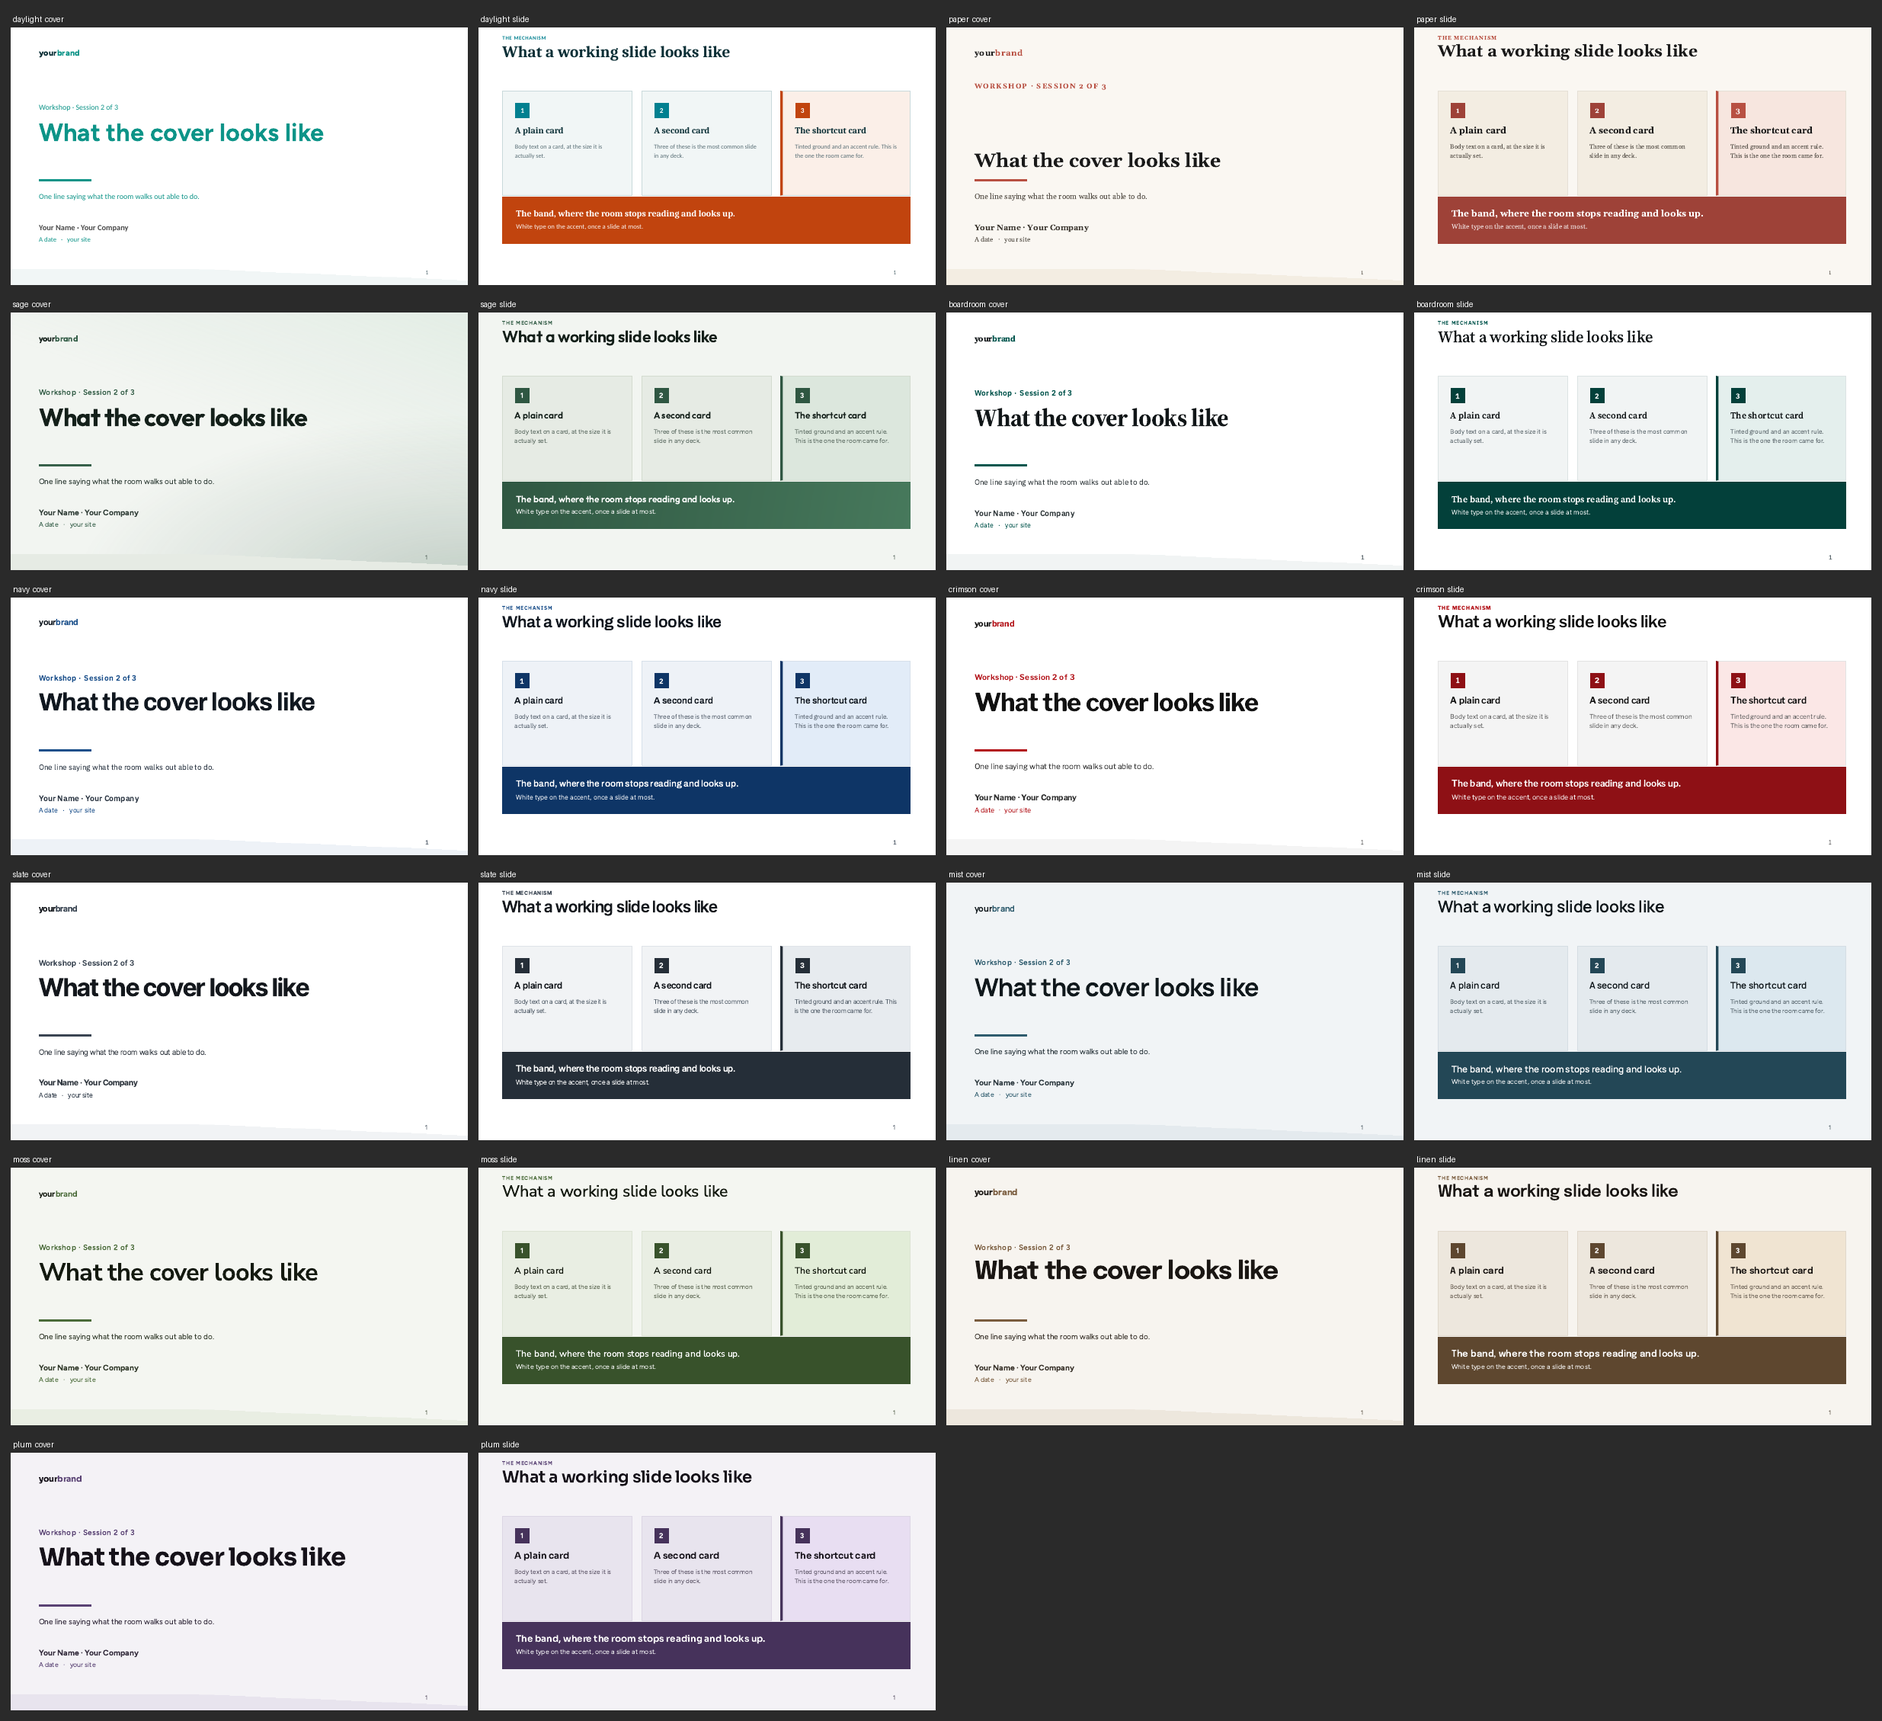
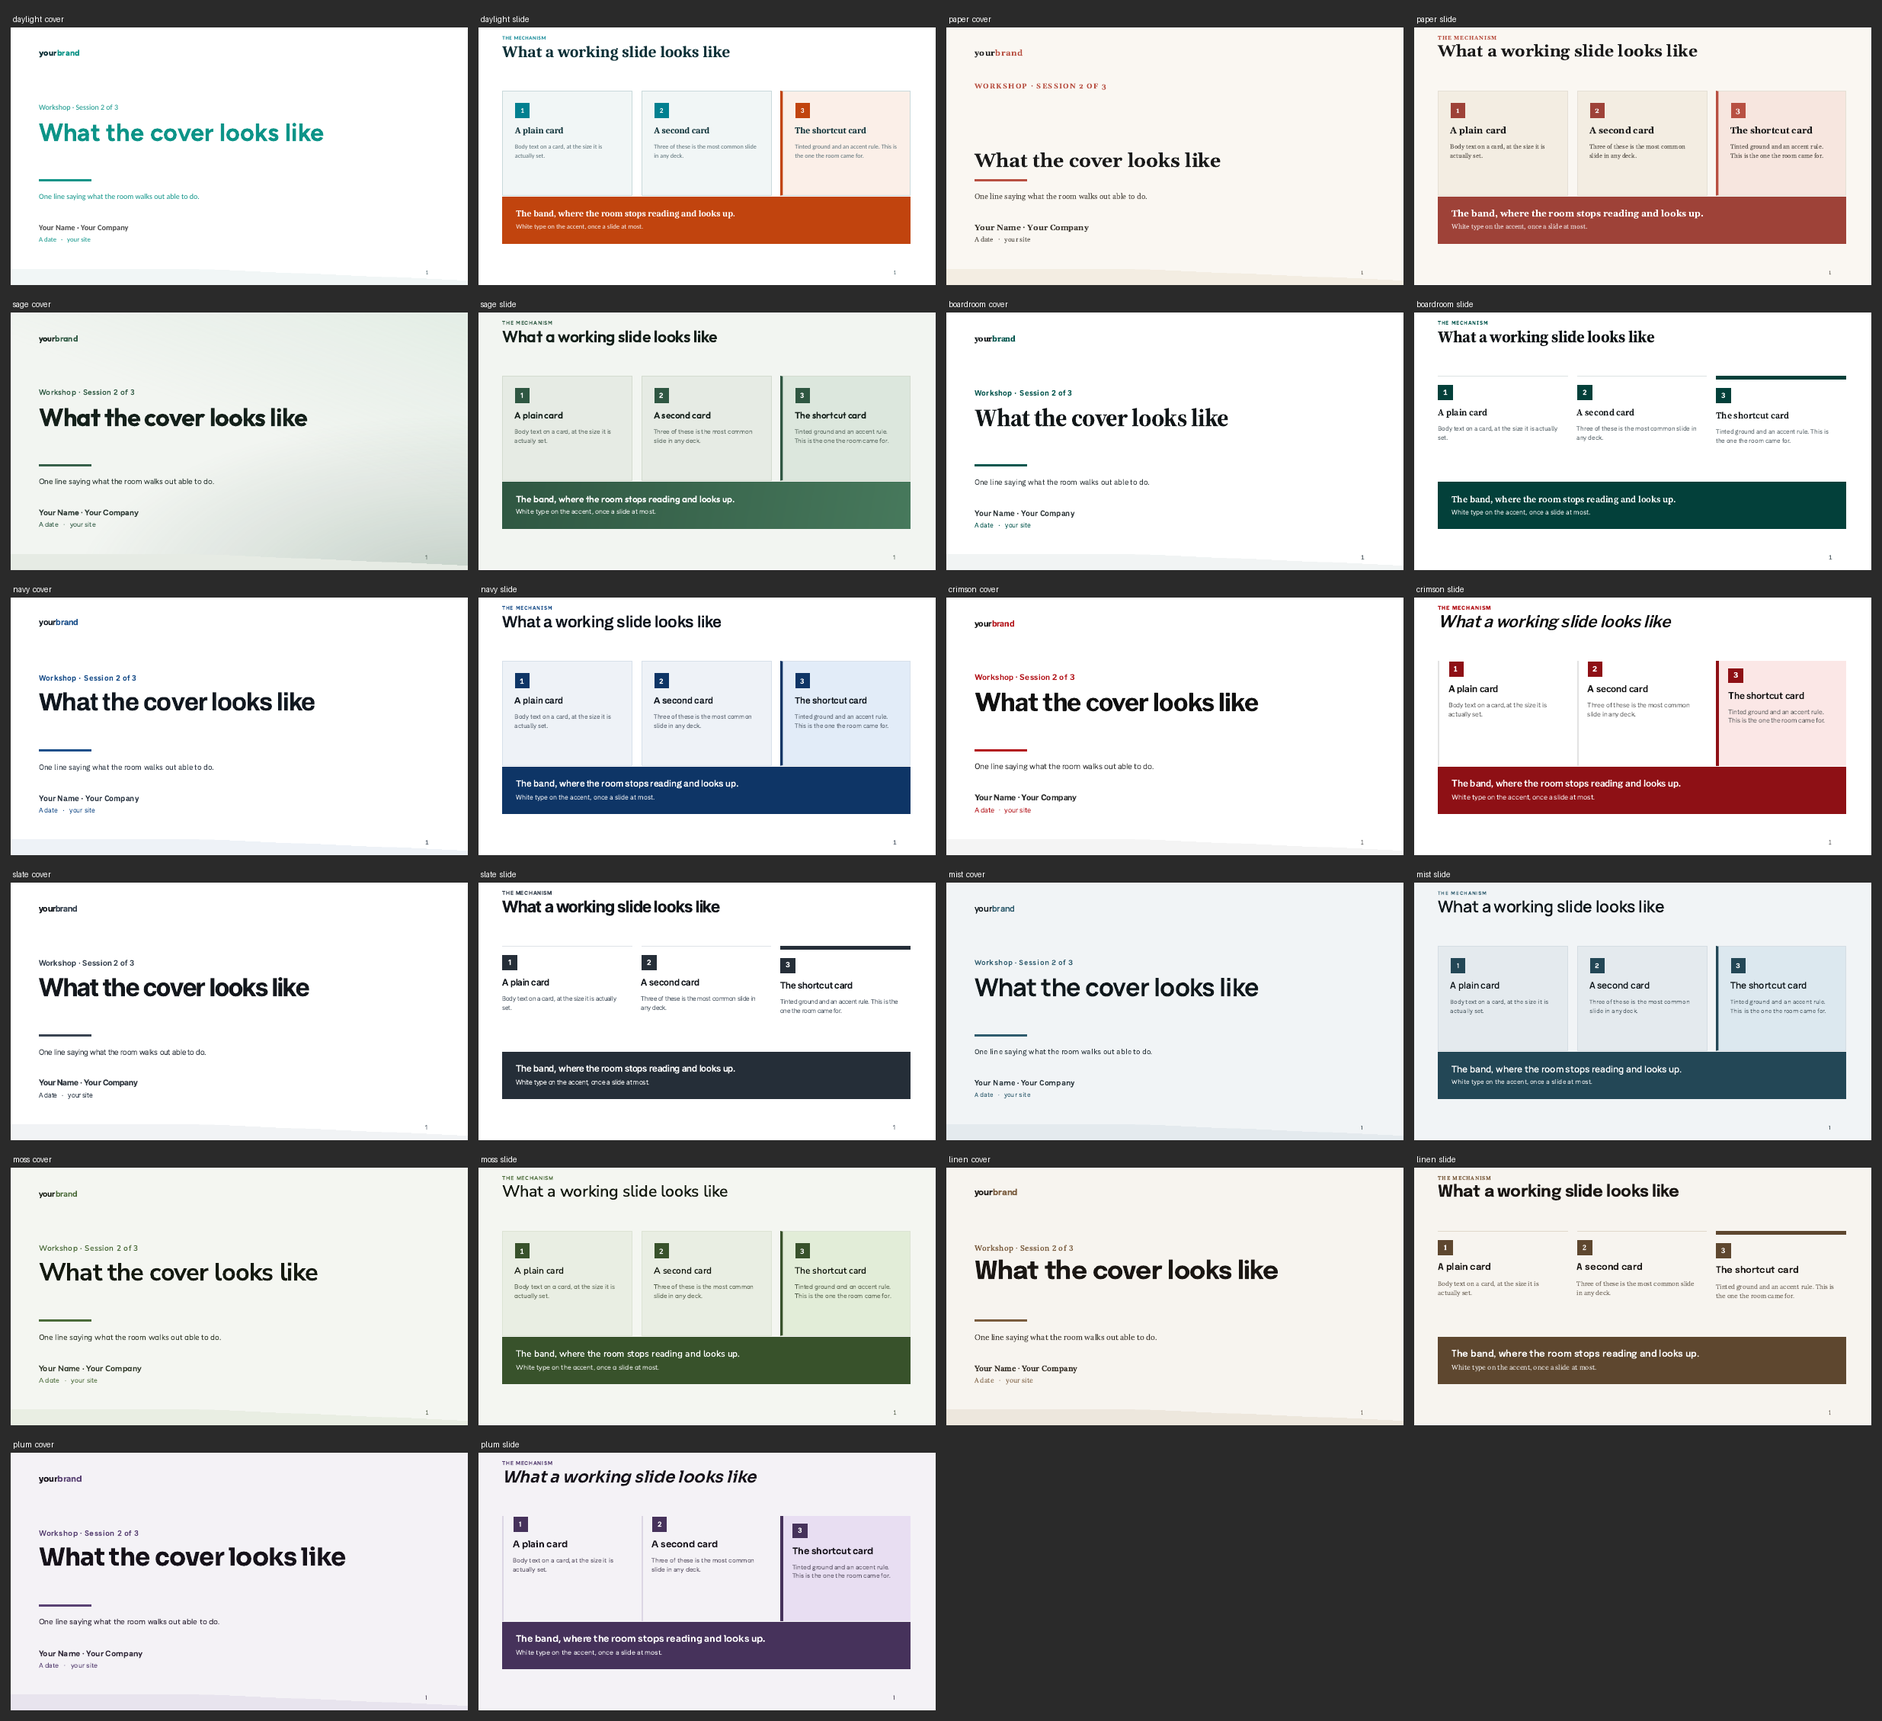
Give the generated themes different construction, not just hue
Three styles: boxed (filled card in a border), ruled (no fill, a rule
over each column, reads as a document), edged (no fill, a thick accent
rule down the left, italic title). The grid is unchanged, so every
collision guarantee still holds; only the treatment varies.

Each theme now has its own body face rather than five sharing one.

diff --git a/plugins/deck-kit/skills/deck/assets/plum.css b/plugins/deck-kit/skills/deck/assets/plum.css
@@ -81,7 +81,7 @@
   --margin:calc(.525 * var(--in));
   --content:calc(8.925 * var(--in));
   --head:'Sora',-apple-system,BlinkMacSystemFont,'Segoe UI',sans-serif;
-  --body:'Figtree',-apple-system,BlinkMacSystemFont,'Segoe UI',sans-serif;
+  --body:'DM Sans',-apple-system,BlinkMacSystemFont,'Segoe UI',sans-serif;
   --brand:'Sora',-apple-system,BlinkMacSystemFont,'Segoe UI',sans-serif;
   --mono:'Courier New',Courier,monospace;
 
@@ -788,3 +788,20 @@ body{
       the one card that is meant to be seen before it is read. */
 .card{border-width:calc(.7 * var(--pt))}
 .tbl th,.tbl td{border-bottom-width:calc(.7 * var(--pt))}
+
+/* ---- style: edged ------------------------------------------------
+   No fill and no box. A rule down the left of each column, and the
+   title set in italic. This is the editorial voice and it is the one
+   family that is genuinely tiring over a long deck, which is why it
+   is only on the two themes that already carry that warning.
+   The shortcut keeps the tint here, because with every card already
+   carrying a left rule the rule alone no longer distinguishes it. */
+.card{background:none;border:none;border-left:calc(2.5 * var(--pt)) solid var(--card-line);
+      padding:calc(.02 * var(--in)) calc(.20 * var(--in))}
+.dark .card{background:none;border-left-color:var(--dark-line)}
+.card.tip{background:var(--tip-bg);
+          border-left:calc(5 * var(--pt)) solid var(--accent-deep);
+          padding-top:calc(.16 * var(--in));padding-bottom:calc(.16 * var(--in))}
+.dark .card.tip{background:var(--dark-card);border-left-color:var(--accent-lift)}
+.title{font-style:italic;font-weight:600;letter-spacing:-.004em}
+.chapter h2{font-style:italic}

diff --git a/plugins/deck-kit/skills/deck/assets/linen.css b/plugins/deck-kit/skills/deck/assets/linen.css
@@ -80,7 +80,7 @@
   --margin:calc(.525 * var(--in));
   --content:calc(8.925 * var(--in));
   --head:'Epilogue',-apple-system,BlinkMacSystemFont,'Segoe UI',sans-serif;
-  --body:'Figtree',-apple-system,BlinkMacSystemFont,'Segoe UI',sans-serif;
+  --body:'Lora',Georgia,serif;
   --brand:'Epilogue',-apple-system,BlinkMacSystemFont,'Segoe UI',sans-serif;
   --mono:'Courier New',Courier,monospace;
 
@@ -787,3 +787,17 @@ body{
       the one card that is meant to be seen before it is read. */
 .card{border-width:calc(.7 * var(--pt))}
 .tbl th,.tbl td{border-bottom-width:calc(.7 * var(--pt))}
+
+/* ---- style: ruled ------------------------------------------------
+   The card loses its fill and its box and keeps a rule over the top.
+   Three columns under three rules read as a document's columns, which
+   is the point: this family is for a room that reads first.
+   The shortcut card cannot rely on a tint it no longer has, so its
+   rule is three times the weight and takes the deep accent. */
+.card{background:none;border:none;border-top:calc(2 * var(--pt)) solid var(--card-line);
+      padding:calc(.18 * var(--in)) calc(.16 * var(--in)) 0 0}
+.dark .card{background:none;border-top-color:var(--dark-line)}
+.card.tip{background:none;border-left:none;
+          border-top:calc(6 * var(--pt)) solid var(--accent-deep)}
+.dark .card.tip{border-top-color:var(--accent-lift)}
+.title{font-weight:700;letter-spacing:-.018em}

diff --git a/plugins/deck-kit/skills/deck/assets/crimson.css b/plugins/deck-kit/skills/deck/assets/crimson.css
@@ -790,3 +790,20 @@ body{
       the one card that is meant to be seen before it is read. */
 .card{border-width:calc(.7 * var(--pt))}
 .tbl th,.tbl td{border-bottom-width:calc(.7 * var(--pt))}
+
+/* ---- style: edged ------------------------------------------------
+   No fill and no box. A rule down the left of each column, and the
+   title set in italic. This is the editorial voice and it is the one
+   family that is genuinely tiring over a long deck, which is why it
+   is only on the two themes that already carry that warning.
+   The shortcut keeps the tint here, because with every card already
+   carrying a left rule the rule alone no longer distinguishes it. */
+.card{background:none;border:none;border-left:calc(2.5 * var(--pt)) solid var(--card-line);
+      padding:calc(.02 * var(--in)) calc(.20 * var(--in))}
+.dark .card{background:none;border-left-color:var(--dark-line)}
+.card.tip{background:var(--tip-bg);
+          border-left:calc(5 * var(--pt)) solid var(--accent-deep);
+          padding-top:calc(.16 * var(--in));padding-bottom:calc(.16 * var(--in))}
+.dark .card.tip{background:var(--dark-card);border-left-color:var(--accent-lift)}
+.title{font-style:italic;font-weight:600;letter-spacing:-.004em}
+.chapter h2{font-style:italic}

diff --git a/plugins/deck-kit/skills/deck/assets/boardroom.css b/plugins/deck-kit/skills/deck/assets/boardroom.css
@@ -783,3 +783,17 @@ body{
       the one card that is meant to be seen before it is read. */
 .card{border-width:calc(.7 * var(--pt))}
 .tbl th,.tbl td{border-bottom-width:calc(.7 * var(--pt))}
+
+/* ---- style: ruled ------------------------------------------------
+   The card loses its fill and its box and keeps a rule over the top.
+   Three columns under three rules read as a document's columns, which
+   is the point: this family is for a room that reads first.
+   The shortcut card cannot rely on a tint it no longer has, so its
+   rule is three times the weight and takes the deep accent. */
+.card{background:none;border:none;border-top:calc(2 * var(--pt)) solid var(--card-line);
+      padding:calc(.18 * var(--in)) calc(.16 * var(--in)) 0 0}
+.dark .card{background:none;border-top-color:var(--dark-line)}
+.card.tip{background:none;border-left:none;
+          border-top:calc(6 * var(--pt)) solid var(--accent-deep)}
+.dark .card.tip{border-top-color:var(--accent-lift)}
+.title{font-weight:700;letter-spacing:-.018em}

diff --git a/plugins/deck-kit/skills/deck/assets/slate.css b/plugins/deck-kit/skills/deck/assets/slate.css
@@ -792,3 +792,17 @@ body{
       the one card that is meant to be seen before it is read. */
 .card{border-width:calc(.7 * var(--pt))}
 .tbl th,.tbl td{border-bottom-width:calc(.7 * var(--pt))}
+
+/* ---- style: ruled ------------------------------------------------
+   The card loses its fill and its box and keeps a rule over the top.
+   Three columns under three rules read as a document's columns, which
+   is the point: this family is for a room that reads first.
+   The shortcut card cannot rely on a tint it no longer has, so its
+   rule is three times the weight and takes the deep accent. */
+.card{background:none;border:none;border-top:calc(2 * var(--pt)) solid var(--card-line);
+      padding:calc(.18 * var(--in)) calc(.16 * var(--in)) 0 0}
+.dark .card{background:none;border-top-color:var(--dark-line)}
+.card.tip{background:none;border-left:none;
+          border-top:calc(6 * var(--pt)) solid var(--accent-deep)}
+.dark .card.tip{border-top-color:var(--accent-lift)}
+.title{font-weight:700;letter-spacing:-.018em}

diff --git a/plugins/deck-kit/skills/deck/assets/moss.css b/plugins/deck-kit/skills/deck/assets/moss.css
@@ -79,7 +79,7 @@
   --margin:calc(.525 * var(--in));
   --content:calc(8.925 * var(--in));
   --head:'Nunito Sans',-apple-system,BlinkMacSystemFont,'Segoe UI',sans-serif;
-  --body:'Figtree',-apple-system,BlinkMacSystemFont,'Segoe UI',sans-serif;
+  --body:'Mulish',-apple-system,BlinkMacSystemFont,'Segoe UI',sans-serif;
   --brand:'Nunito Sans',-apple-system,BlinkMacSystemFont,'Segoe UI',sans-serif;
   --mono:'Courier New',Courier,monospace;
 

diff --git a/plugins/deck-kit/skills/deck/assets/mist.css b/plugins/deck-kit/skills/deck/assets/mist.css
@@ -79,7 +79,7 @@
   --margin:calc(.525 * var(--in));
   --content:calc(8.925 * var(--in));
   --head:'Manrope',-apple-system,BlinkMacSystemFont,'Segoe UI',sans-serif;
-  --body:'Figtree',-apple-system,BlinkMacSystemFont,'Segoe UI',sans-serif;
+  --body:'Karla',-apple-system,BlinkMacSystemFont,'Segoe UI',sans-serif;
   --brand:'Manrope',-apple-system,BlinkMacSystemFont,'Segoe UI',sans-serif;
   --mono:'Courier New',Courier,monospace;
 

diff --git a/plugins/deck-kit/skills/deck/scripts/build.py b/plugins/deck-kit/skills/deck/scripts/build.py
@@ -37,20 +37,17 @@ FONTS = {
                  "&family=IBM+Plex+Sans:wght@400;500;600&display=swap"),
     "crimson":  "css2?family=Libre+Franklin:wght@400;500;600;700&display=swap",
     "slate":    "css2?family=Inter+Tight:wght@400;500;600;700&display=swap",
-    # The quiet four. Same generator, tinted ground instead of white. Each
-    # takes Figtree for the body, which daylight and sage also use, and a
-    # heading family no other theme uses. That is not decoration: check.py
-    # identifies a deck's theme by finding the one family unique to it, so a
-    # new theme that borrows both families from an existing one is a theme
-    # the checker cannot tell apart from its neighbour.
-    "mist":     ("css2?family=Manrope:wght@500;600;700"
-                 "&family=Figtree:wght@400;500;600;700&display=swap"),
-    "moss":     ("css2?family=Nunito+Sans:wght@500;600;700"
-                 "&family=Figtree:wght@400;500;600;700&display=swap"),
-    "linen":    ("css2?family=Epilogue:wght@500;600;700"
-                 "&family=Figtree:wght@400;500;600;700&display=swap"),
-    "plum":     ("css2?family=Sora:wght@500;600;700"
-                 "&family=Figtree:wght@400;500;600;700&display=swap"),
+    # The quiet four. Same generator, tinted ground instead of white, and
+    # since 2026-09-12 a body face of their own rather than Figtree for all
+    # four: sharing a body across five themes was most of why they read as
+    # one template recoloured. Each still keeps a heading family no other
+    # theme uses, and that part is not taste: check.py identifies a deck's
+    # theme by finding the one family unique to it, so two themes sharing
+    # both families are two themes the checker cannot tell apart.
+    "mist":     "css2?family=Manrope:wght@500;600;700&family=Karla:wght@400;500;600;700&display=swap",
+    "moss":     "css2?family=Nunito+Sans:wght@500;600;700&family=Mulish:wght@400;500;600;700&display=swap",
+    "linen":     "css2?family=Epilogue:wght@500;600;700&family=Lora:wght@400;500;600;700&display=swap",
+    "plum":     "css2?family=Sora:wght@500;600;700&family=DM+Sans:wght@400;500;600;700&display=swap",
 }
 
 # Each theme's working accent, copied from the token its own stylesheet

diff --git a/plugins/deck-kit/skills/deck/scripts/check.py b/plugins/deck-kit/skills/deck/scripts/check.py
@@ -138,6 +138,11 @@ def main(d):
     # are stripped first: shell.html records every font link in a comment on
     # purpose, and each theme's stylesheet explains itself by naming the fonts
     # it is not.
+    # One rule when adding a family here: never pick a name that is a
+    # prefix of another theme's. plum was briefly given Inter while slate
+    # has Inter Tight, and the search below matched "Inter" inside "Inter
+    # Tight" and failed every slate deck. The guard is right to be
+    # suspicious; the fix is a family name that cannot be confused.
     FAMILIES = {
         "daylight":  ["Caladea", "Carlito", "Figtree"],
         "paper":     ["Gelasio"],
@@ -146,10 +151,10 @@ def main(d):
         "navy":      ["Archivo", "IBM Plex Sans"],
         "crimson":   ["Libre Franklin"],
         "slate":     ["Inter Tight"],
-        "mist":      ["Manrope", "Figtree"],
-        "moss":      ["Nunito Sans", "Figtree"],
-        "linen":     ["Epilogue", "Figtree"],
-        "plum":      ["Sora", "Figtree"],
+        "mist":      ["Manrope", "Karla"],
+        "moss":      ["Nunito Sans", "Mulish"],
+        "linen":      ["Epilogue", "Lora"],
+        "plum":      ["Sora", "DM Sans"],
     }
     if theme:
         mine = set(FAMILIES[theme])

diff --git a/plugins/deck-kit/skills/deck/SKILL.md b/plugins/deck-kit/skills/deck/SKILL.md
@@ -57,6 +57,22 @@ Two things about the quiet four that only showed up in the render, not in the CS
 - **`linen` and `plum` set wider.** Epilogue and Sora both run longer than Manrope and Nunito Sans at the same size, so a cover headline or a title that sits on one line in `mist` takes two in those. Moving a finished deck between them is not free. Re render before you present it.
 - **The accent in this group is never light, and it cannot be.** It carries small type on a pale ground and has to clear 4.5:1 there. "Light sage green" as an accent fails outright. What lifts is the page and the card; the theme reads light because three quarters of the slide is the ground.
 
+### The three presentation styles
+
+The eight generated themes used to share one geometry and differ only in hue, which is a fair description of a template recoloured rather than a template designed. The **grid** is still constant, because that is what guarantees nothing collides and what `check.py` enforces. What varies now is the treatment.
+
+| Style | How a card is built | Title | Themes |
+|---|---|---|---|
+| **boxed** | A filled card inside a border. Most legible from the back of a room and most forgiving of a long body | Plain | `navy` `mist` `moss` |
+| **ruled** | No fill, no box, a rule over each column. The page reads as a document rather than as slideware | Heavier, tighter | `boardroom` `slate` `linen` |
+| **edged** | No fill, a thick accent rule down the left of each column | Italic | `crimson` `plum` |
+
+`boxed` is the default and the right answer for a teaching deck. `ruled` suits a room that reads before it listens. `edged` is editorial, carries a short argument well, and gets tiring over thirty slides, which is why it is only on the two themes that already carry that warning.
+
+The shortcut card has to survive each of them. Under `ruled` it cannot lean on a tint it no longer has, so its rule is three times the weight and takes the deep accent. Under `edged` every card already has a left rule, so the shortcut keeps its tint as well.
+
+**Each theme has its own body face**, not just its own heading face. Five themes sharing Figtree was most of why the quiet four read as one template. One rule when adding another: **never pick a family whose name is a prefix of another theme's.** `plum` was briefly given Inter while `slate` has Inter Tight, and the cross theme guard matched "Inter" inside "Inter Tight" and failed every slate deck.
+
 ## Step 0, do the research. Before the block plan, not after.
 
 **Search the web first, every time, even on a topic you know well.** A deck built from what the model already knows is a deck of round claims, and a room can tell within two slides. The research is what produces the numbers, the trend and the shortcuts, and none of those can be invented.
